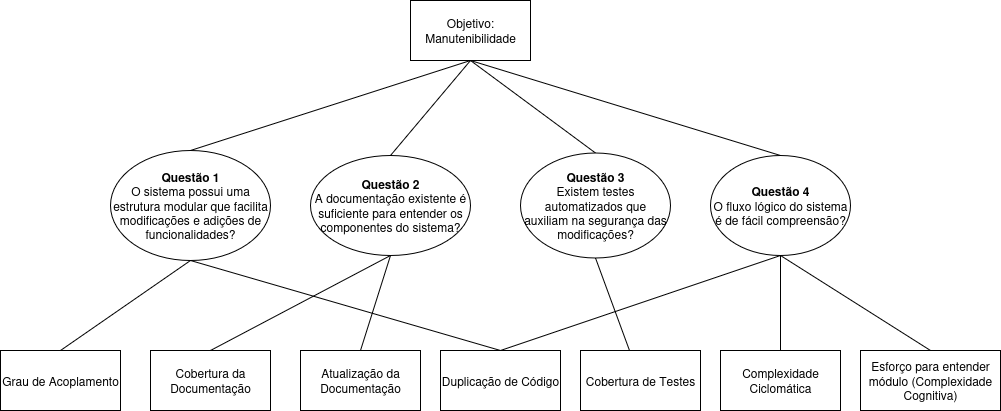
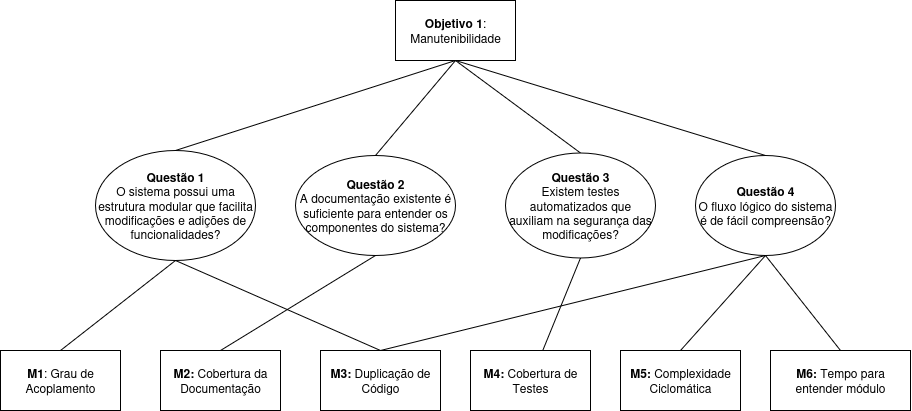
fix: corrige gqm e plano de avaliação

diff --git a/docs/avaliacao/plano.md b/docs/avaliacao/plano.md
@@ -2,39 +2,38 @@
 
 ## Objetivo da avaliação
 
-Avaliar o software AgroMart com base nas características de qualidade usando o método PSM-CID, quanto à **usabilidade** e à **manutenibilidade**.
+Avaliar o software AgroMart com base nas características de qualidade usando o método PSM-CID, quanto à **efetividade, eficiência e satisfação** e à **manutenibilidade**.
 
 ## Método de avaliação (PSM-CID)
 
 - Características avaliadas:
 
-| Característica       | Subcaracterística                                                             | Objetivo no AgroMart                                                                |
-| -------------------- | ----------------------------------------------------------------------------- | ----------------------------------------------------------------------------------- |
-| **Manutenibilidade** | Modularidade, Reusabilidade, Analisabilidade, Modificabilidade, Testabilidade | Avaliar a facilidade de localizar erros e fazer modificações no código ou interface |
-| **Usabilidade**      | Operacionalidade, Aprendizado, Estética, Acessibilidade                       | Garantir que o sistema seja intuitivo, claro e fácil de usar                        |
+| Característica       | Subcaracterística                                                             | Objetivo no AgroMart                                                                                         |
+| -------------------- | ----------------------------------------------------------------------------- | ------------------------------------------------------------------------------------------------------------ |
+| **Manutenibilidade** | Modularidade, Reusabilidade, Analisabilidade, Modificabilidade, Testabilidade | Avaliar a facilidade de localizar erros e fazer modificações no código ou interface                          |
+| **Efetividade**      | Efetividade                                                                   | Assegurar que o sistema permita aos usuários completar suas tarefas corretamente e integralmente             |
+| **Eficiência**       | Eficiência                                                                    | Garantir que o sistema utilize os recursos de forma otimizada para atingir os objetivos com o mínimo esforço |
+| **Satisfação**       | Utilidade, Conforto, Prazer, Confiança                                                                    | Avaliar a percepção positiva dos usuários quanto à experiência geral com o sistema                           |
 
 - Métricas definidas (Manutenibilidade):
 
-| Métrica                      | Como medir                                                                                                                                         |
-|-----------------------------|----------------------------------------------------------------------------------------------------------------------------------------------------|
-| Grau de acoplamento         | Análise estática do código (ex.: número de dependências entre módulos/classes/funções)                                                             |
-| Cobertura da documentação   | Verificar presença e completude de documentos essenciais (manuais, guias, etc.), comparando com uma lista de documentos esperados                 |
-| Atualização da documentação | Verificar se os documentos foram atualizados recentemente e se refletem a versão atual do código                                                  |
-| Cobertura de testes         | Percentual de código coberto por testes automatizados                                                                                              |
-| Complexidade ciclomática    | Cálculo da complexidade por meio de ferramentas como SonarQube                                                                                     |
-| Duplicação de Código        | Percentual ou número de blocos de código duplicados, identificado por ferramentas de análise estática como o SonarQube                            |
-| Esforço para entender módulo (Complexidade Cognitiva) | Medida do esforço mental necessário para compreender o código, considerando profundidade de aninhamento e desvios de fluxo. Usar ferramentas como SonarQube |
+| Código | Métrica                    | Como medir                                                                                            |
+| ------ | -------------------------- | ----------------------------------------------------------------------------------------------------- |
+| M1     | Grau de acoplamento        | Análise estática do código usando ferramentas como Dependency Cruiser para medir AC, EC e Instability |
+| M2     | Cobertura da documentação  | Densidade de comentários (Comment Lines Density) medida com SonarQube                                 |
+| M3     | Duplicação de código       | Percentual de código duplicado detectado por ferramentas como SonarQube                               |
+| M4     | Cobertura de testes        | Percentual de código coberto por testes automatizados, medido com Jest                                |
+| M5     | Complexidade ciclomática   | Cálculo da complexidade ciclomática por função com SonarQube                                          |
+| M6     | Tempo para entender módulo | Derivado da complexidade cognitiva calculada pelo SonarQube, representando esforço mental necessário  |
 
-- Métricas definidas (Usabilidade/Eficiência de Uso):
+- Métricas definidas (efetividade, eficiência e satisfação):
 
-| Métrica                                  | Tipo         | Como medir                                                                                                                                |
-| ---------------------------------------- | ------------ | ----------------------------------------------------------------------------------------------------------------------------------------- |
-| Tempo médio para completar tarefa        | Quantitativa | Cronometrar quanto tempo um colega demora para realizar tarefas comuns                                                                    |
-| Número de erros por tarefa               | Quantitativa | Quantidade de tentativas incorretas ou falhas                                                                                             |
-| Taxa de sucesso em tarefas               | Quantitativa | Porcentagem de tarefas realizadas com sucesso sem necessidade de retrabalho                                                               |
-| Satisfação do usuário                    | Qualitativa  | Questionário com escala Likert (1 a 5), aplicado ao colega que realizou as tarefas                                                        |
-| Desempenho percebido (tempo de resposta) | Qualitativa  | Avaliação subjetiva do usuário sobre a velocidade do sistema, por meio de questionários ou entrevistas                                    |
-
+| Código | Métrica                     | Tipo         | Como medir                                                                                     |
+| ------ | --------------------------- | ------------ | ---------------------------------------------------------------------------------------------- |
+| M7     | Taxa de sucesso nas tarefas | Quantitativa | Porcentagem de tarefas realizadas com sucesso sem necessidade de retrabalho                    |
+| M8     | Tempo de execução da tarefa | Quantitativa | Cronometrar o tempo médio que um usuário leva para realizar tarefas comuns                     |
+| M9     | Satisfação média            | Qualitativa  | Questionário com escala Likert (1 a 5) aplicado aos usuários após execução das tarefas         |
+| M10    | Tempo de resposta percebido | Qualitativa  | Avaliação subjetiva do usuário sobre a velocidade do sistema, com questionários ou entrevistas |
 
 ## Guia do avaliador
 
@@ -71,7 +70,7 @@ Avaliar o software AgroMart com base nas características de qualidade usando o 
 
 ### Divisão de Subgrupos
 
-Para otimizar a execução da avaliação e considerando as ênfases estabelecidas (manutenibilidade: 5, usabilidade: 3), a equipe foi dividida em dois subgrupos de trabalho, atuando de forma paralela e coordenada.
+Para otimizar a execução da avaliação e considerando as ênfases estabelecidas (manutenibilidade: 5, efetividade, eficiência e satisfação: 2), a equipe foi dividida em dois subgrupos de trabalho, atuando de forma paralela e coordenada.
 
 ---
 
@@ -90,16 +89,16 @@ Para otimizar a execução da avaliação e considerando as ênfases estabelecid
 
 ---
 
-#### Subgrupo Usabilidade (2 pessoas)
+#### Subgrupo de Efetividade, Eficiência e Satisfação (2 pessoas)
 
 **Integrantes**: Daniel Santos, Philipe Barros
 
-**Foco**: Ênfase na avaliação dos aspectos de usabilidade do software.
+**Foco**: Ênfase na avaliação dos aspectos de qualidade em uso do software relacionados à efetividade, eficiência e satisfação.
 
 **Responsabilidades**:
 
-- Planejar e executar a coleta de dados de usabilidade, empregando métodos como testes de usuário, questionários ou avaliações heurísticas.
-- Analisar os dados coletados e compará-los com os critérios de usabilidade previamente definidos.
+- Planejar e executar a coleta de dados de efetividade, eficiência e satisfação, empregando métodos como testes de usuário, questionários ou avaliações heurísticas.
+- Analisar os dados coletados e compará-los com os critérios previamente definidos.
 - Propor melhorias na interface ou nos fluxos de interação do AgroMart.
 - Documentar todas as descobertas, análises e propostas de melhoria.
 
@@ -123,14 +122,14 @@ A seguir, são listadas as ferramentas e recursos que podem ser utilizados duran
 
 O cronograma a seguir apresenta a distribuição das atividades do grupo. Cada atividade possui responsáveis e prazos definidos.
 
-| **Categoria**                    | **Atividade Principal**                          | **Período**               | **Responsáveis**                         |
-| -------------------------------- | ------------------------------------------------ | ------------------------- | ---------------------------------------- |
-| **Gestão de Projeto**            | Gerenciamento contínuo                           | 30 de junho a 07 de julho | Grupo completo                           |
-| **Preparação**                   | Elaboração do Plano de Avaliação                 | 01 a 02 de julho          | Grupo completo                           |
-| **Execução da Avaliação**        | Coleta de dados (manutenibilidade e usabilidade) | 03 a 04 de julho          | Subgrupos Manutenibilidade e Usabilidade |
-|                                  | Análise e comparação                             | 05 de julho               | Subgrupos Manutenibilidade e Usabilidade |
-|                                  | Execução de ações de melhoria                    | 06 a 07 de julho          | Grupo completo                           |
-| **Documentação e Revisão Final** | Revisão geral e entrega                          | 07 a 08 de julho          | Grupo completo                           |
+| **Categoria**                    | **Atividade Principal**          | **Período**               | **Responsáveis** |
+| -------------------------------- | -------------------------------- | ------------------------- | ---------------- |
+| **Gestão de Projeto**            | Gerenciamento contínuo           | 30 de junho a 07 de julho | Grupo completo   |
+| **Preparação**                   | Elaboração do Plano de Avaliação | 01 a 02 de julho          | Grupo completo   |
+| **Execução da Avaliação**        | Coleta de dados                  | 03 a 04 de julho          | Subgrupos        |
+|                                  | Análise e comparação             | 05 de julho               | Subgrupos        |
+|                                  | Execução de ações de melhoria    | 06 a 07 de julho          | Grupo completo   |
+| **Documentação e Revisão Final** | Revisão geral e entrega          | 07 a 08 de julho          | Grupo completo   |
 
 O gráfico Gantt abaixo oferece uma visualização clara da sequência e duração das atividades previstas:
 

diff --git a/docs/gqm/definition.md b/docs/gqm/definition.md
@@ -8,13 +8,13 @@ O Agromart tem como propósito oferecer aos pequenos agricultores mais seguranç
 
 ## Objetivo de Medição 1
 
-| Elemento                 | Descrição                                                                            |
-| ------------------------ | ------------------------------------------------------------------------------------ |
-| **Analisar**             | AgroMart                                                                             |
-| **Para o propósito de**  | avaliar a sua capacidade de ser compreendido, adaptado e evoluído de forma eficiente |
-| **Com respeito a**       | manutenibilidade                                                                     |
-| **Do ponto de vista do** | desenvolvedor                                                                        |
-| **No contexto da**       | disciplina de Qualidade de Software                                                  |
+| Elemento                 | Descrição                           |
+| ------------------------ | ----------------------------------- |
+| **Analisar**             | AgroMart                            |
+| **Para o propósito de**  | avaliar                             |
+| **Com respeito a**       | manutenibilidade                    |
+| **Do ponto de vista do** | desenvolvedor                       |
+| **No contexto da**       | disciplina de Qualidade de Software |
 
 ### Questões e Hipóteses
 
@@ -37,12 +37,12 @@ O Agromart tem como propósito oferecer aos pequenos agricultores mais seguranç
     <td style="width: 50%; padding: 10px; vertical-align: top; border: 1px solid #ccc;">
       <strong>Foco da Qualidade</strong>
       <ul style="margin-top: 5px;">
-        <li>Cobertura de testes</li>
         <li>Grau de acoplamento entre módulos</li>
         <li>Cobertura da documentação</li>
+        <li>Cobertura de testes</li>
+        <li>Duplicação de código</li>
         <li>Complexidade ciclomática</li>
-        <li>Esforço para entender módulo</li>
-        <li>Densidade de duplicação de código</li>
+        <li>Tempo para entender módulo</li>
       </ul>
     </td>
     <td style="width: 50%; padding: 10px; vertical-align: top; border: 1px solid #ccc;">
@@ -67,10 +67,10 @@ O Agromart tem como propósito oferecer aos pequenos agricultores mais seguranç
             <li>I (Instability) entre 0,2 e 0,6, garantindo equilíbrio entre estabilidade e flexibilidade</li>
           </ul>
         </li>
-        <li>Documentação cobre aspectos principais (como instalação e uso)</li>
+        <li>Cobertura da Documentação - Densidade de comentários entre 15% e 25%, indicando documentação suficiente para orientar novos desenvolvedores</li>
         <li>Complexidade ciclomática média em nível aceitável (5–10 por função)</li>
-        <li>Complexidade cognitiva abaixo de 15 por módulo</li>
-        <li>Densidade de duplicação abaixo de 5%</li>
+        <li>Tempo médio para entender módulo: entre 5 e 10 minutos</li>
+        <li>Duplicação de código abaixo de 5%</li>
       </ul>
     </td>
     <td style="padding: 10px; vertical-align: top; border: 1px solid #ccc;">
@@ -94,25 +94,23 @@ O Agromart tem como propósito oferecer aos pequenos agricultores mais seguranç
 
 ###### M2: Cobertura da documentação
 
-###### M3: Atualização da documentação
+###### M3: Duplicação de Código
 
 ###### M4: Cobertura de testes
 
 ###### M5: Complexidade ciclomática
 
-###### M6: Duplicação de Código
-
-###### M7: Esforço para entender módulo
+###### M6: Tempo para entender módulo
 
 ## Objetivo de Medição 2
 
-| Elemento                 | Descrição                                              |
-| ------------------------ | ------------------------------------------------------ |
-| **Analisar**             | AgroMart                                               |
-| **Para o propósito de**  | entender sua eficácia e facilidade de uso              |
-| **Com respeito a**       | eficiência de uso (usabilidade e desempenho percebido) |
-| **Do ponto de vista de** | usuário final                                          |
-| **No contexto da**       | disciplina de Qualidade de Software                    |
+| Elemento                 | Descrição                                       |
+| ------------------------ | ----------------------------------------------- |
+| **Analisar**             | AgroMart                                        |
+| **Para o propósito de**  | entender                                        |
+| **Com respeito a**       | efetividade, eficiência e satisfação do usuário |
+| **Do ponto de vista de** | usuário final                                   |
+| **No contexto da**       | disciplina de Qualidade de Software             |
 
 ### Questões e Hipóteses
 
@@ -170,17 +168,13 @@ O Agromart tem como propósito oferecer aos pequenos agricultores mais seguranç
 
 #### Métricas para Objetivo 2
 
-###### M8: Taxa de sucesso nas tarefas
+###### M7: Taxa de sucesso nas tarefas
 
-###### M9: Cliques até compra
+###### M8: Tempo de execução da tarefa
 
-###### M10: Tempo médio de compra
+###### M9: Satisfação média
 
-###### M11: Satisfação média
-
-###### M12: Tempo de resposta percebido
-
-###### M13: Taxa de desistência
+###### M10: Tempo de resposta percebido
 
 ## Tabela de Contribuição
 
@@ -205,9 +199,6 @@ O Agromart tem como propósito oferecer aos pequenos agricultores mais seguranç
     </li>
     <li><strong>Tempo para detectar falhas</strong><br>
       Depende de logs históricos de bugs ou dados operacionais de produção, que não estão disponíveis para a equipe avaliadora.
-    </li>
-    <li><strong>Comentários por função</strong><br>
-      A presença de comentários nem sempre reflete qualidade ou clareza, podendo inclusive mascarar código mal estruturado. Além disso, é de baixa confiabilidade como métrica isolada.
     </li>
     <li><strong>Padrões arquiteturais</strong><br>
       A avaliação de padrões arquiteturais exige análise qualitativa e conhecimento profundo do sistema e suas decisões de design, o que foge ao escopo da análise automatizada e objetiva.

diff --git a/docs/gqm/niveis_pontuacao.md b/docs/gqm/niveis_pontuacao.md
@@ -15,18 +15,24 @@ Os níveis de pontuação para cada métrica estão definidos conforme as tabela
 
 - Métricas do Objetivo de Medição 1
 
-| Métrica                   | Unidade                               | Níveis de Pontuação                                                                          |
-| ------------------------- | ------------------------------------- | ------------------------------------------------------------------------------- |
-| Cobertura de Testes       | Percentual (%)                                     | Excelente: ≥ 80% <br> Bom: 60% - 79% <br> Aceitável: 40% - 59% <br> Ruim: < 40% |
-| Grau de Acoplamento       | % de módulos com acoplamento moderado | Excelente: > 90% <br> Bom: 70% - 90% <br> Aceitável: 50% - 69% <br> Ruim: < 50% |
-| Cobertura da Documentação | ??             | Excelente: ≥ 90% <br> Bom: 70% - 89% <br> Aceitável: 50% - 69% <br> Ruim: < 50% |
-| Atualização da Documentação | ??             | Excelente: ≥ 90% <br> Bom: 70% - 89% <br> Aceitável: 50% - 69% <br> Ruim: < 50% |
-| Complexidade Ciclomática  | Média por função                      | Excelente: 1 - 5 <br> Bom: 5 - 10 <br> Aceitável: 11 - 15 <br> Ruim: > 15       |
-| Complexidade Cognitiva    | Pontos por módulo                     | Excelente: < 10 <br> Bom: 10 - 15 <br> Aceitável: 16 - 20 <br> Ruim: > 20       |
-| Duplicação de Código      | Percentual (%)                                     | Excelente: < 2% <br> Bom: 2% - 5% <br> Aceitável: 5% - 10% <br> Ruim: > 10%     |
+| Código | Métrica                   | Unidade                     | Níveis de Pontuação                                                                                       |
+|--------|---------------------------|-----------------------------|---------------------------------------------------------------------------------------------------------|
+| M1     | Grau de Acoplamento       | % de módulos com acoplamento moderado | Excelente: > 90% <br> Bom: 70% - 90% <br> Aceitável: 50% - 69% <br> Ruim: < 50%                    |
+| M2     | Cobertura da Documentação | Densidade de comentários (%)| Excelente: 25% - 35% <br> Bom: 15% - 24% <br> Aceitável: 10% - 14% <br> Ruim: < 10%                      |
+| M3     | Duplicação de Código      | Percentual (%)             | Excelente: < 2% <br> Bom: 2% - 5% <br> Aceitável: 5% - 10% <br> Ruim: > 10%                              |
+| M4     | Cobertura de Testes       | Percentual (%)             | Excelente: ≥ 70% <br> Bom: 50% - 69% <br> Aceitável: 30% - 49% <br> Ruim: < 30%                            |
+| M5     | Complexidade Ciclomática  | Média por função           | Excelente: 1 - 4 <br> Bom: 5 - 10 <br> Aceitável: 11 - 15 <br> Ruim: > 15                                |
+| M6     | Tempo médio para entender módulo | Minutos                   | Excelente: < 5 min <br> Bom: 5 - 10 min <br> Aceitável: 11 - 15 min <br> Ruim: > 15 min                  |
 
 - Métricas do Objetivo de Medição 2
-  
+
+| Código | Métrica                   | Unidade               | Níveis de Pontuação                                                                                 |
+|--------|---------------------------|----------------------|---------------------------------------------------------------------------------------------------|
+| M7     | Taxa de sucesso nas tarefas | Percentual (%)       | Excelente: ≥ 80% <br> Bom: 70% - 79% <br> Aceitável: 50% - 69% <br> Ruim: < 50%                    |
+| M8     | Tempo de execução da tarefa | Minutos              | Excelente: < 2 min <br> Bom: 2 - 3 min <br> Aceitável: 4 - 5 min <br> Ruim: > 5 min                |
+| M9     | Satisfação média            | Escala 1 a 5         | Excelente: ≥ 4 <br> Bom: 3.5 - 3.99 <br> Aceitável: 3 - 3.49 <br> Ruim: < 3                        |
+| M10    | Tempo de resposta percebido | Segundos             | Excelente: < 1 s <br> Bom: 1 - 2 s <br> Aceitável: 3 - 4 s <br> Ruim: > 4 s                        |
+
 ## Histórico de Versão
 
 | Versão | Data       | Autor                                      | Descrição            | Revisor |

diff --git a/docs/gqm/criterio_julgamento.md b/docs/gqm/criterio_julgamento.md
@@ -1,13 +1,22 @@
 ## Critério de Julgamento para Manutenibilidade
 
-Para avaliar a manutenibilidade do software, utilizam-se as métricas definidas e seus respectivos níveis de desempenho. O critério de julgamento é o seguinte:
+Para avaliar a manutenibilidade do software, consideram-se as métricas definidas (M1 a M6) e seus níveis de desempenho. O critério de julgamento é:
 
-- Se cinco ou mais métricas estiverem classificadas como **Excelente** ou **Bom**, a manutenibilidade é considerada **adequada**, pois o desempenho geral está dentro ou acima do esperado.
-- Se três ou quatro métricas estiverem classificadas como **Excelente** ou **Bom**, a manutenibilidade é considerada **aceitável**, indicando desempenho parcialmente satisfatório, com possibilidade de melhorias.
-- Se menos de três métricas estiverem classificadas como **Excelente** ou **Bom**, a manutenibilidade é considerada **insatisfatória**, exigindo ações corretivas.
+- Se 75% ou mais das métricas estiverem classificadas como **Excelente** ou **Bom**, a manutenibilidade é considerada **adequada**, indicando que o software apresenta boa modularidade, documentação e facilidade para manutenção.
+- Se entre 50% e 74% das métricas estiverem classificadas como **Excelente** ou **Bom**, a manutenibilidade é considerada **aceitável**, sugerindo que o software possui desempenho razoável, mas ainda pode ser melhorado.
+- Se menos de 50% das métricas estiverem classificadas como **Excelente** ou **Bom**, a manutenibilidade é considerada **insatisfatória**, demandando ações corretivas para reduzir complexidade, acoplamento e melhorar documentação.
+
+## Critério de Julgamento para Qualidade em Uso
+
+Para avaliar a qualidade em uso do sistema, consideram-se as métricas M7 a M10 (métricas relacionadas à efetividade, eficiência e/ou satisfação) e seus níveis de desempenho. O critério de julgamento é:
+
+- Se 75% ou mais das métricas estiverem classificadas como **Excelente** ou **Bom**, a qualidade em uso é considerada **adequada**, indicando que o sistema atende bem às expectativas dos usuários em efetividade, eficiência e satisfação.
+- Se entre 50% e 74% das métricas estiverem classificadas como **Excelente** ou **Bom**, a qualidade em uso é considerada **aceitável**, sugerindo um desempenho razoável, com potencial para melhorias.
+- Se menos de 50% das métricas estiverem classificadas como **Excelente** ou **Bom**, a qualidade em uso é considerada **insatisfatória**, demandando ações para aprimorar a experiência do usuário.
 
 ## Histórico de Versão
 
-| Versão | Data       | Autor                                              | Descrição                                | Revisor                                            |
-| ------ | ---------- | -------------------------------------------------- | ---------------------------------------- | -------------------------------------------------- |
-| 1.0    | 07/07/2025 | [Philipe Sousa](https://github.com/PhilipeSousa)         | Criação do documento                     | [Daniel Coimbra](https://github.com/DanielCoimbra) |
+| Versão | Data       | Autor                                            | Descrição                         | Revisor                                            |
+| ------ | ---------- | ------------------------------------------------ | --------------------------------- | -------------------------------------------------- |
+| 1.0    | 07/07/2025 | [Philipe Sousa](https://github.com/PhilipeSousa) | Criação do documento              | [Daniel Coimbra](https://github.com/DanielCoimbra) |
+| 1.1    | 08/07/2025 | [Cássio Reis](https://github.com/csreis72)       | Adição de critérios de julgamento | -                                                  |

diff --git a/docs/requisito_avaliacao/req.md b/docs/requisito_avaliacao/req.md
@@ -108,7 +108,23 @@ Hardware mínimo recomendado:
 
 ---
 
-## 4. ODS - Objetivos de Desenvolvimento Sustentável
+## 4. Especificar o modelo de qualidade
+
+Para a avaliação do AgroMart, foram adotados os modelos de qualidade de produto e qualidade em uso, conforme definidos pela norma ISO/IEC 25010 (SQuaRE). Esses modelos fornecem uma estrutura abrangente para avaliar as características do sistema, tanto do ponto de vista do produto em si quanto da experiência do usuário durante seu uso.
+
+![Modelo de Qualide de Produto](../assets/modelo-qualidade-do-produto.png)
+/// caption
+Figura 1: Modelo de Qualidade de Produto (SQuaRE)
+///
+
+![Modelo de Qualide em Uso](../assets/modelo-qualidade-em-uso.png)
+/// caption
+Figura 2: Modelo de Qualidade em Uso (SQuaRE)
+///
+
+---
+
+## 5. ODS - Objetivos de Desenvolvimento Sustentável
 
 O **AgroMart** alinha-se a diversos ODS da Agenda 2030 da ONU:
 

diff --git a/docs/execucao/coleta_dados/usabilidade.md b/docs/execucao/coleta_dados/usabilidade.md
@@ -1,4 +1,4 @@
-# Coleta de dados de Usabilidade - AgroMart
+# Coleta de dados de efetividade, eficiência e satisfação - AgroMart
 
 ## Participante
 - Nome: Elaine
